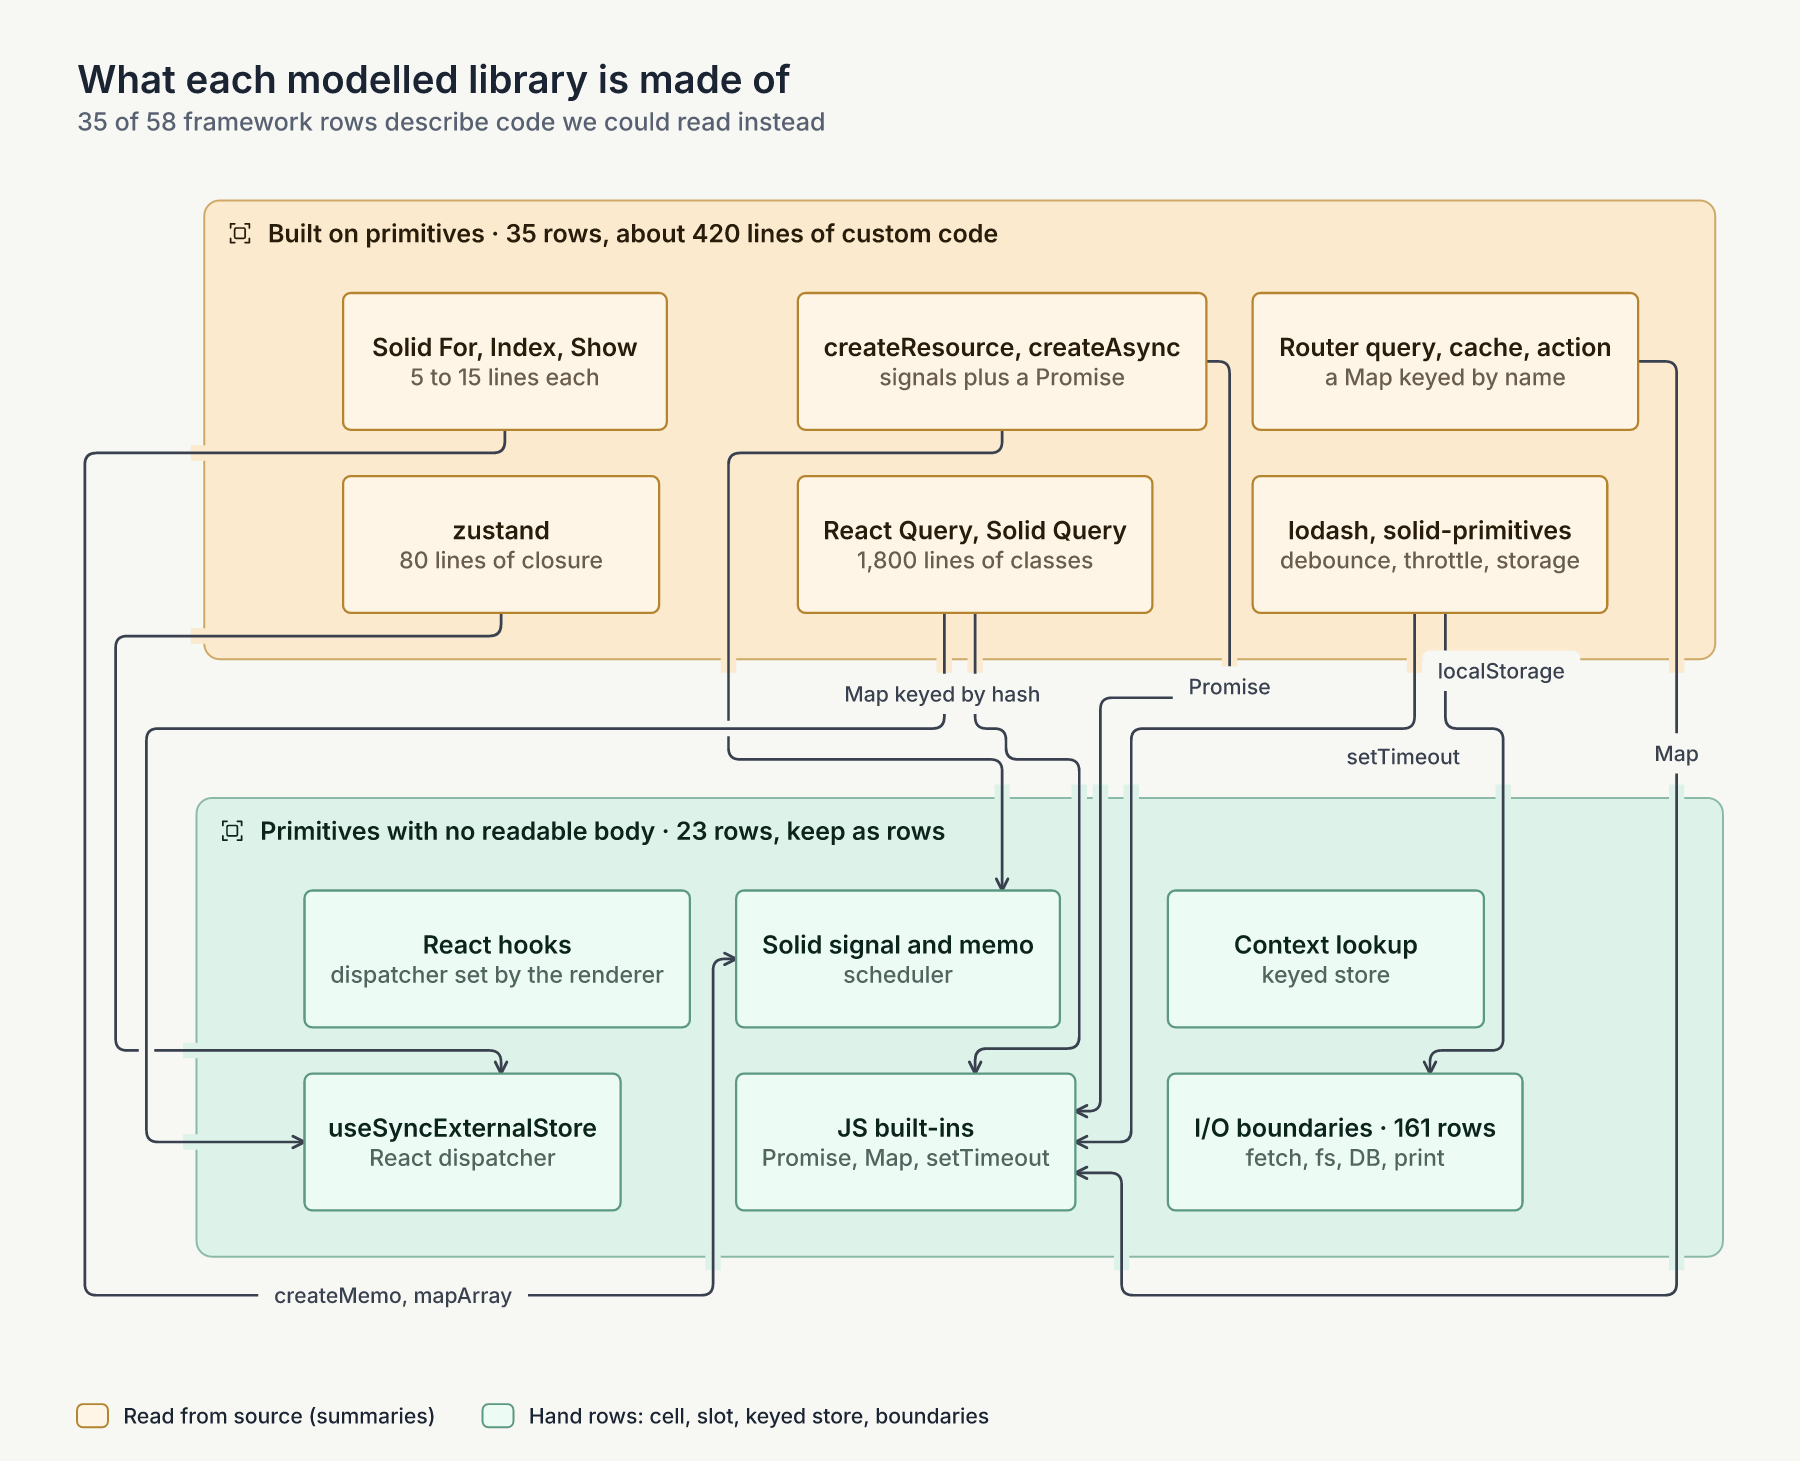
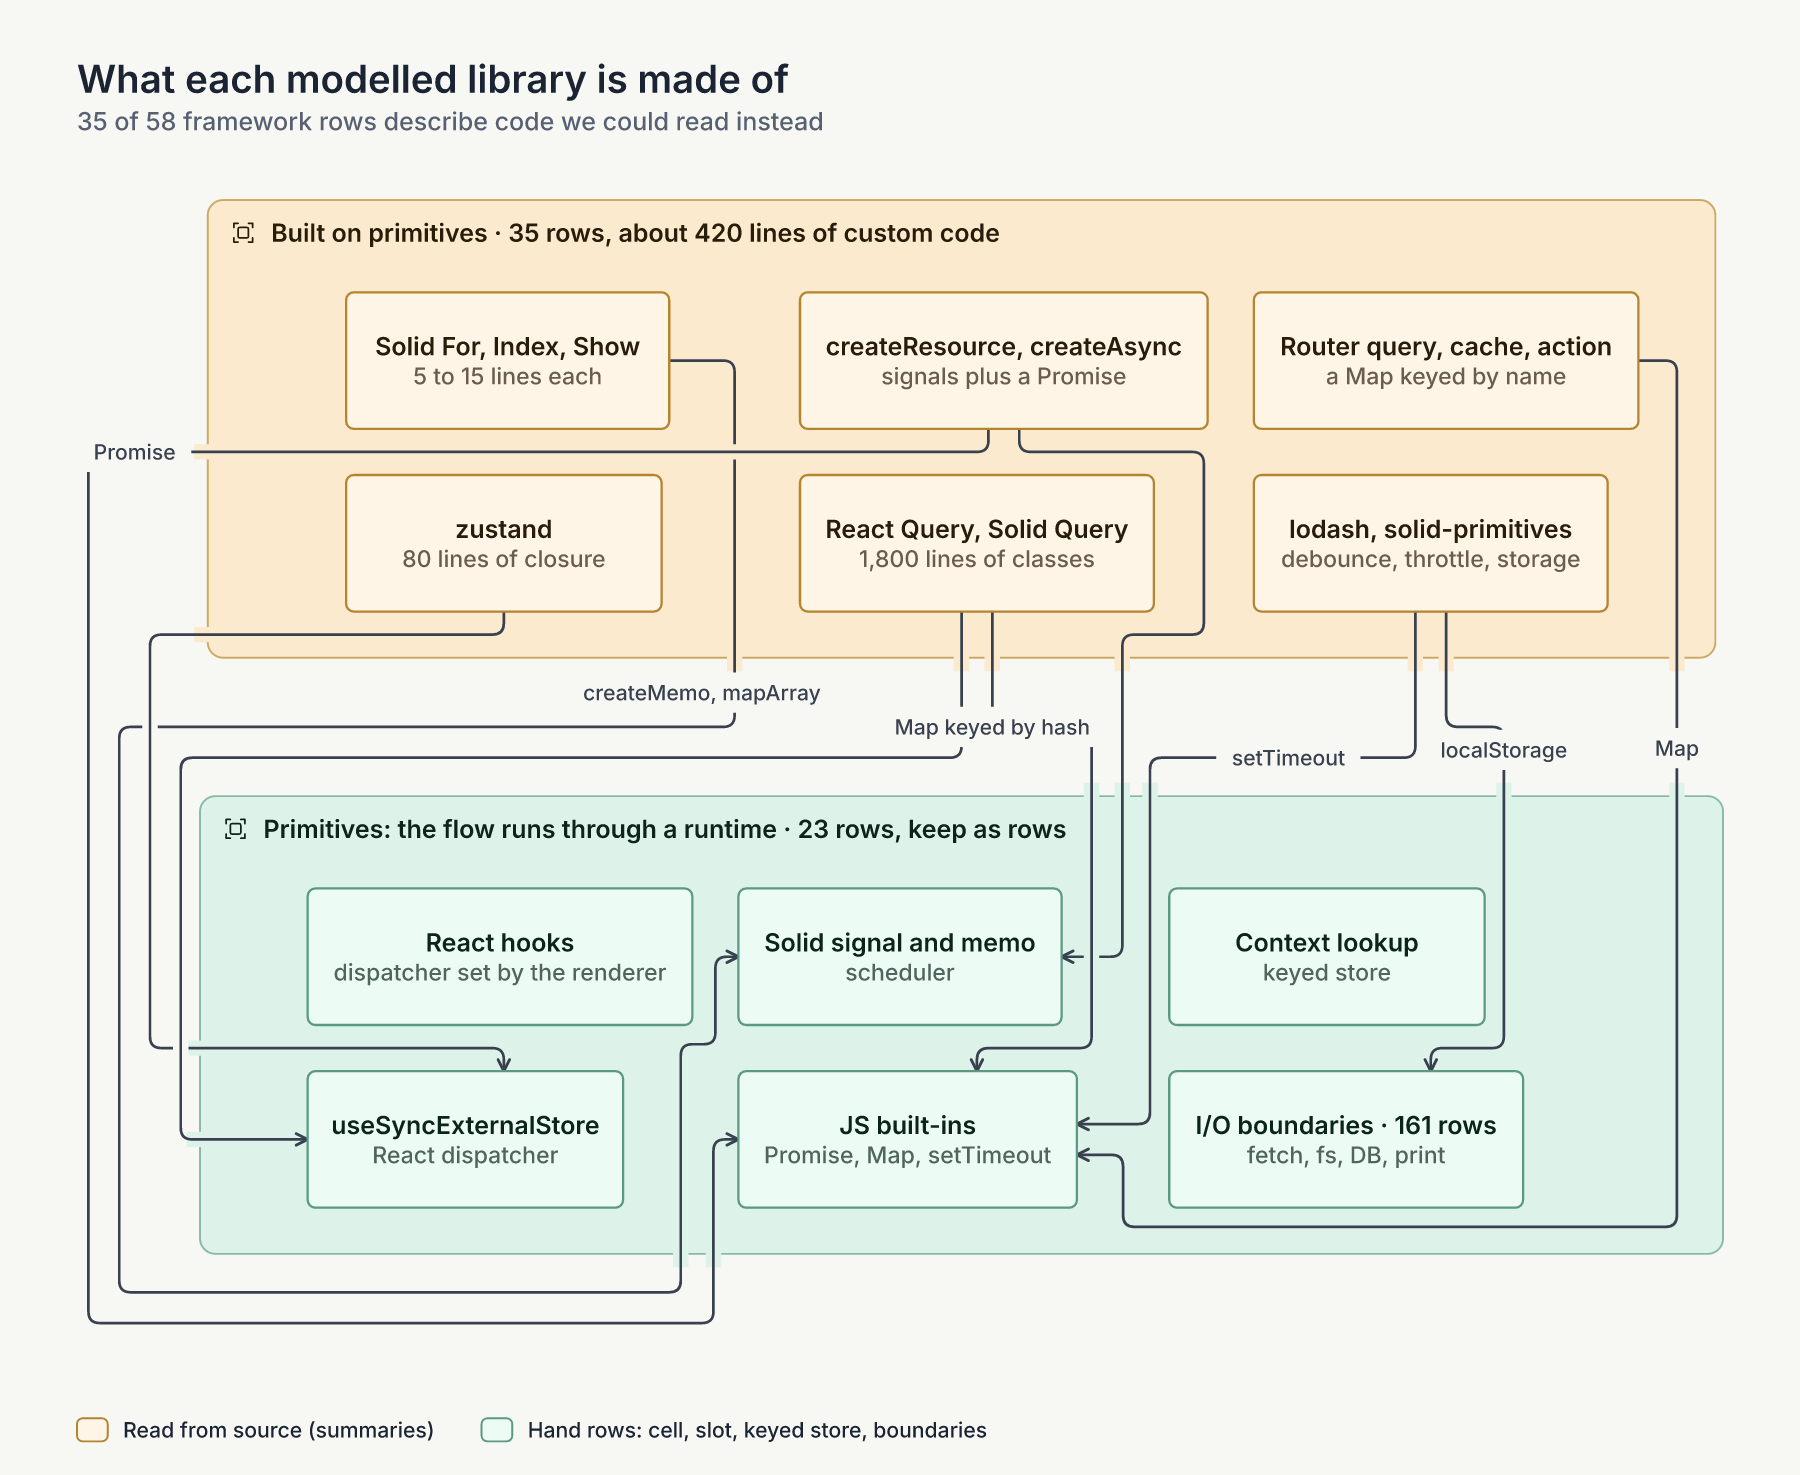
docs(research): explain what a primitive is, with zustand and React code

diff --git a/docs/research/dataflow-library-models-2026-11/README.md b/docs/research/dataflow-library-models-2026-11/README.md
@@ -257,7 +257,9 @@ Suggested spike: summarise `zustand` from `node_modules` source down to a `useSy
 
 ## 5c. Library intake applied to what we model today
 
-The intake question: does this library have a body we can read, or is it a primitive (a runtime, a renderer's dispatcher, a scheduler, I/O)? Only primitives need hand rows. I read the installed source of each modelled library (`solid-js` 1.x in bible-daily, `@tanstack/react-query` 4.44 and `zustand` in family-finances, `lodash` in recipes-modern).
+The intake question: can a source analysis follow the value through this library's code, or does the path run through a runtime? A *primitive* is the second kind. Its code exists, but which function runs is chosen at run time (React's dispatcher), the write waits in a queue for a scheduler, or the value leaves the program (I/O). Only primitives need hand rows.
+
+![What "primitive" means here](diagrams/13-what-primitive-means.png) I read the installed source of each modelled library (`solid-js` 1.x in bible-daily, `@tanstack/react-query` 4.44 and `zustand` in family-finances, `lodash` in recipes-modern).
 
 ![What each modelled library is made of](diagrams/10-library-layers.png)
 
@@ -276,7 +278,7 @@ The intake question: does this library have a body we can read, or is it a primi
 
 What this shows:
 
-- **23 of 58 framework rows are at the right layer.** They describe primitives that no source analysis can see through.
+- **23 of 58 framework rows are at the right layer.** They describe primitives: the flow runs through a runtime, so no source analysis can follow it.
 - **35 of 58 rows, and about 420 of the 650 hard lines, describe code we could read.** Solid's own components are the plainest case:
 
 ![Solid's For is five lines](diagrams/11-solid-for-is-five-lines.png)
